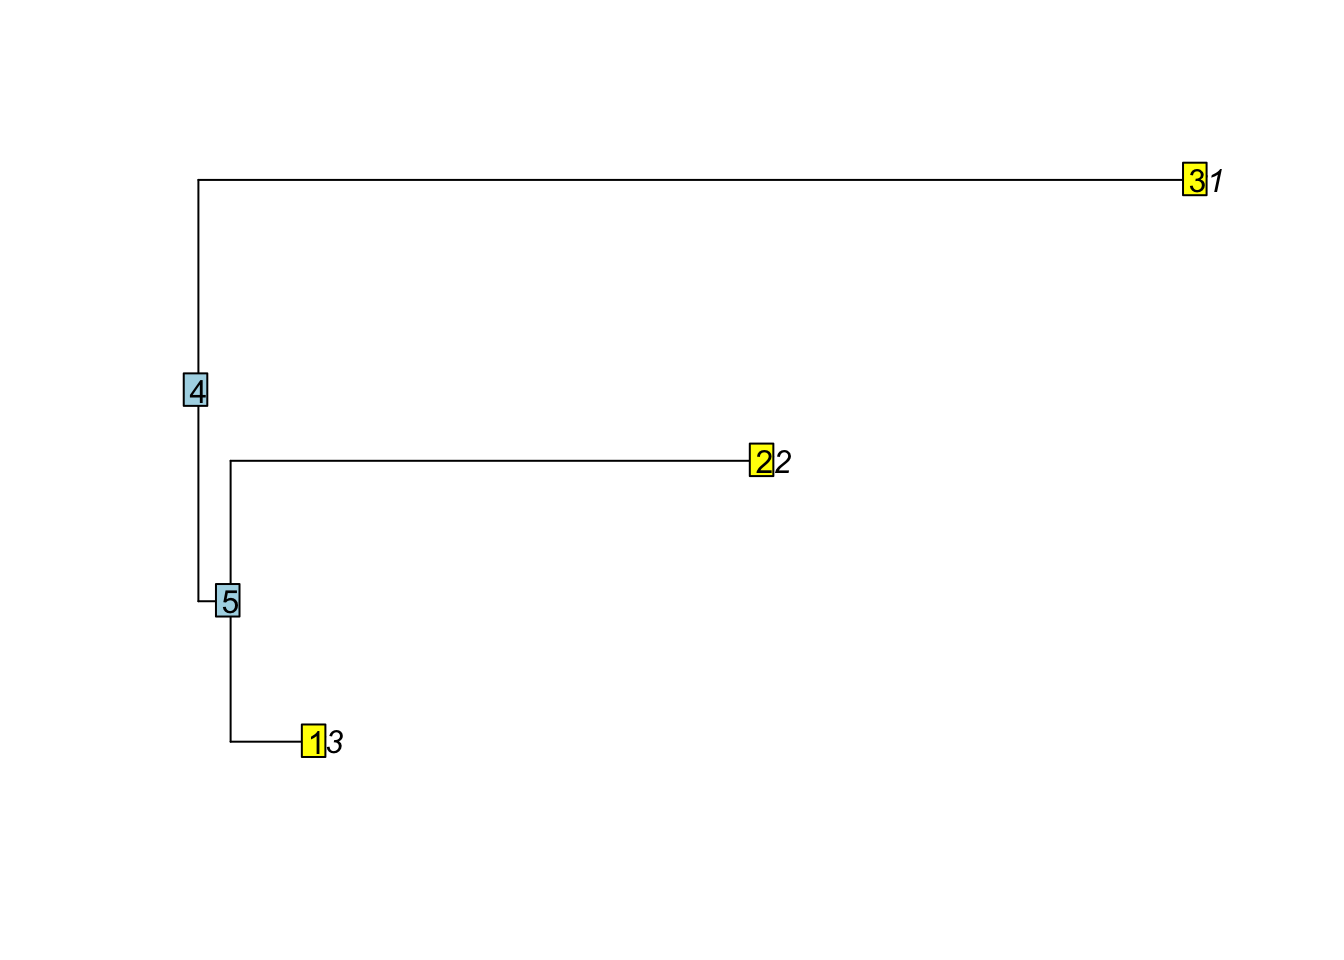
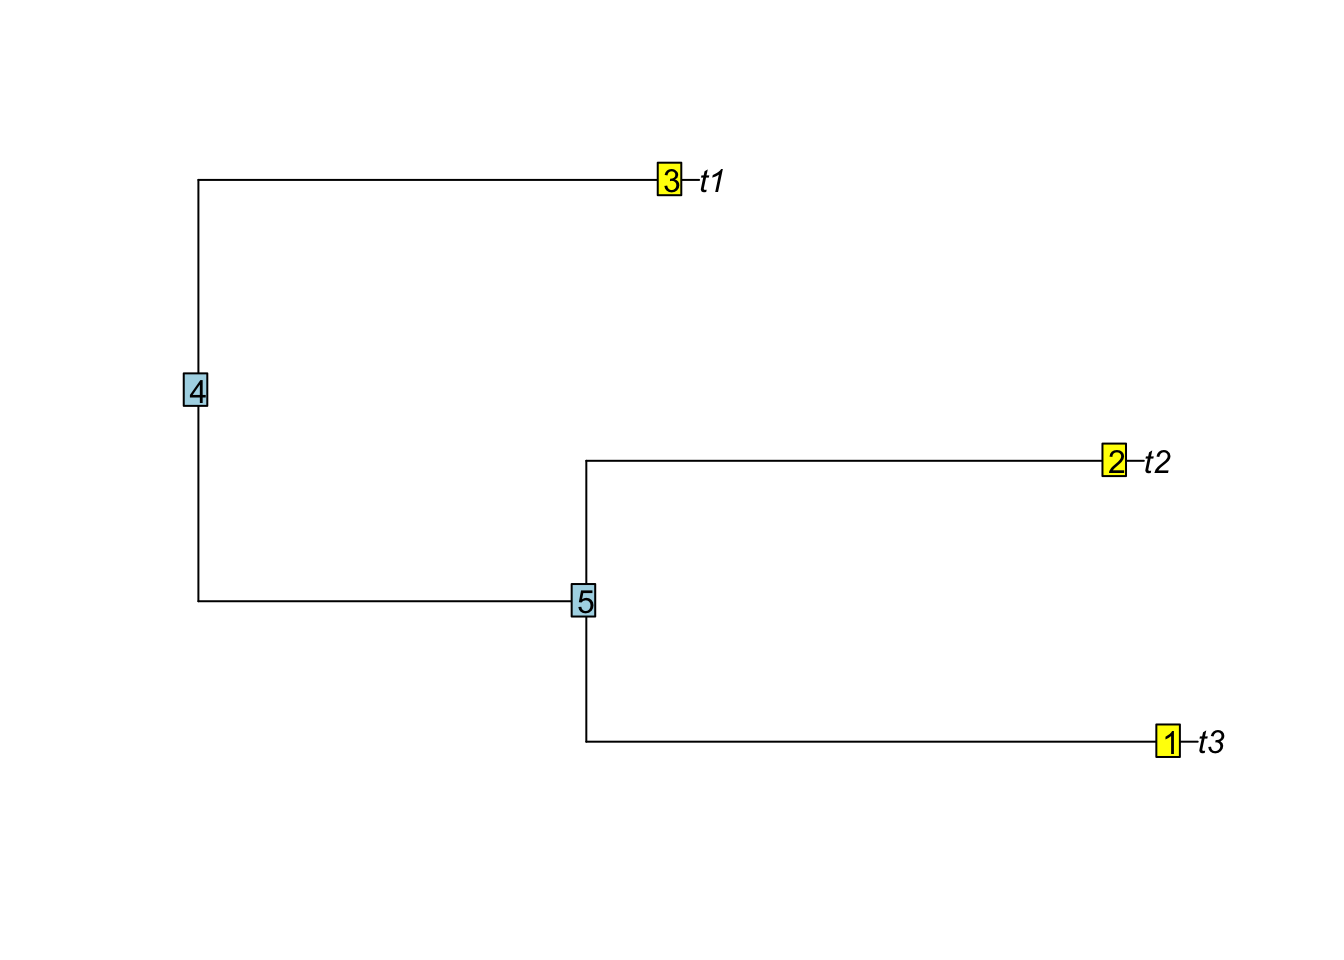
added node numbers to tree format chapter

diff --git a/docs/posts/2023-04-18-Tree-Formats/index.html b/docs/posts/2023-04-18-Tree-Formats/index.html
@@ -607,7 +607,7 @@ $edge.length
 </div>
 <div class="sourceCode cell-code" id="cb25"><pre class="sourceCode r code-with-copy"><code class="sourceCode r"><span id="cb25-1"><a href="#cb25-1" aria-hidden="true" tabindex="-1"></a><span class="fu">plot</span>(tree)</span>
 <span id="cb25-2"><a href="#cb25-2" aria-hidden="true" tabindex="-1"></a><span class="fu">nodelabels</span>()</span>
-<span id="cb25-3"><a href="#cb25-3" aria-hidden="true" tabindex="-1"></a><span class="fu">tiplabels</span>()</span></code><button title="Copy to Clipboard" class="code-copy-button"><i class="bi"></i></button></pre></div>
+<span id="cb25-3"><a href="#cb25-3" aria-hidden="true" tabindex="-1"></a><span class="fu">tiplabels</span>(<span class="at">adj=</span><span class="fu">c</span>(<span class="dv">2</span>))</span></code><button title="Copy to Clipboard" class="code-copy-button"><i class="bi"></i></button></pre></div>
 <div class="cell-output-display">
 <p><img src="index_files/figure-html/unnamed-chunk-11-1.png" class="img-fluid" width="672"></p>
 </div>
@@ -624,11 +624,11 @@ $edge.length
 <span id="cb26-4"><a href="#cb26-4" aria-hidden="true" tabindex="-1"></a>td <span class="sc">%&gt;%</span> as_tibble <span class="sc">%&gt;%</span> as.data.frame</span></code><button title="Copy to Clipboard" class="code-copy-button"><i class="bi"></i></button></pre></div>
 <div class="cell-output cell-output-stdout">
 <pre><code>  parent node branch.length label
-1      5    1    0.07643294    t3
-2      5    2    0.47511996    t2
-3      4    3    0.88937079    t1
+1      5    1     0.8941764    t3
+2      5    2     0.8153808    t2
+3      4    3     0.7322952    t1
 4      4    4            NA  &lt;NA&gt;
-5      4    5    0.02867213  &lt;NA&gt;</code></pre>
+5      4    5     0.5673610  &lt;NA&gt;</code></pre>
 </div>
 <div class="sourceCode cell-code" id="cb28"><pre class="sourceCode r code-with-copy"><code class="sourceCode r"><span id="cb28-1"><a href="#cb28-1" aria-hidden="true" tabindex="-1"></a><span class="fu">ggtree</span>(td) <span class="sc">+</span> </span>
 <span id="cb28-2"><a href="#cb28-2" aria-hidden="true" tabindex="-1"></a>     <span class="fu">geom_tiplab</span>(<span class="at">hjust=</span><span class="sc">-</span><span class="dv">1</span>) <span class="sc">+</span></span>
@@ -650,11 +650,11 @@ $edge.length
 <div class="sourceCode cell-code" id="cb31"><pre class="sourceCode r code-with-copy"><code class="sourceCode r"><span id="cb31-1"><a href="#cb31-1" aria-hidden="true" tabindex="-1"></a>td <span class="sc">%&gt;%</span> as_tibble <span class="sc">%&gt;%</span> as.data.frame</span></code><button title="Copy to Clipboard" class="code-copy-button"><i class="bi"></i></button></pre></div>
 <div class="cell-output cell-output-stdout">
 <pre><code>  parent node branch.length label
-1      5    1    0.07643294    t3
-2      5    2    0.47511996    t2
-3      4    3    0.88937079    t1
+1      5    1     0.8941764    t3
+2      5    2     0.8153808    t2
+3      4    3     0.7322952    t1
 4      4    4            NA  &lt;NA&gt;
-5      4    5    0.02867213  &lt;NA&gt;</code></pre>
+5      4    5     0.5673610  &lt;NA&gt;</code></pre>
 </div>
 </div>
 <div class="callout callout-style-default callout-warning callout-titled">

diff --git a/docs/lectures.html b/docs/lectures.html
@@ -307,7 +307,7 @@ Marguerite Butler
 </a>
 </div>
 </div>
-<div class="quarto-post image-right" data-index="2" data-categories="module 7,week 13,phylogenetic trees,nexus,fasta,newick,beast,iqtree" data-listing-date-sort="1681812000000" data-listing-file-modified-sort="1683488527149" data-listing-date-modified-sort="NaN" data-listing-reading-time-sort="13">
+<div class="quarto-post image-right" data-index="2" data-categories="module 7,week 13,phylogenetic trees,nexus,fasta,newick,beast,iqtree" data-listing-date-sort="1681812000000" data-listing-file-modified-sort="1683488925949" data-listing-date-modified-sort="NaN" data-listing-reading-time-sort="13">
 <div class="thumbnail">
 <p><a href="./posts/2023-04-18-Tree-Formats/index.html"> <p class="card-img-top"><img src="http://www.newicks.com/Web2014/Ed7.1.jpg"  class="thumbnail-image card-img"/></p> </a></p>
 </div>
